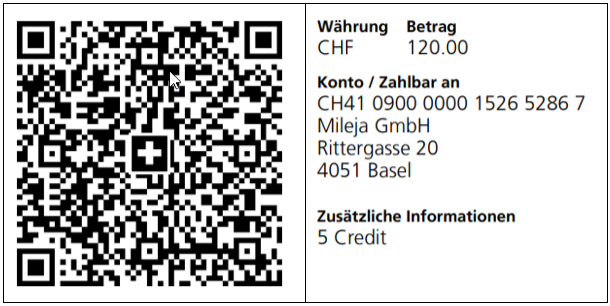
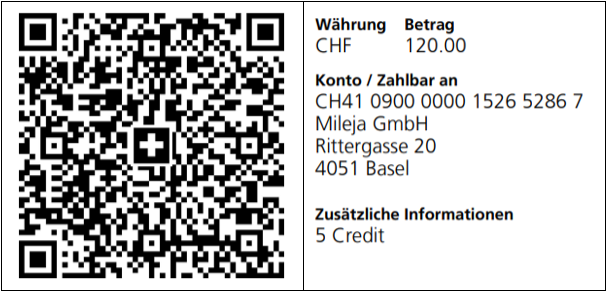
format corrections

diff --git a/users/templates/partials/transaction_history.html b/users/templates/partials/transaction_history.html
@@ -3,55 +3,76 @@
   id="purchase-transactions"
   class="flex justify-center items-center mt-24"
   x-data="{ displayInvoice: '' }"
+  x-init="displayInvoice=''"
 >
   <table
     class="table-auto border-collapse w-[90%] bg-white rounded-xl shadow-lg overflow-hidden"
     @click.outside="displayInvoice=''"
   >
-    <thead class="bg-[#e46aeb] text-white">
+    <thead class="bg-[#e46aeb] text-white text-xs">
       <tr>
-        <th class="p-2 md:px-6 md:py-4 text-left">Bestelldatum</th>
-        <th class="p-2 md:px-6 md:py-4 text-center">Anzahl Credits</th>
-        <th class="p-2 md:px-6 md:py-4 text-center">Status</th>
+        <th class="p-3 md:px-6 md:py-4 text-left">Bestelldatum</th>
+        <th class="p-3 md:px-6 md:py-4 text-center">Anzahl Credits</th>
+        <th class="p-3 md:px-6 md:py-4 text-center">Status</th>
         <th></th>
       </tr>
     </thead>
-    <tbody class="divide-y divide-gray-200 text-black">
+    <tbody class="divide-y divide-gray-200 text-black text-xs">
       {% for pt in purchase_transactions %}
       <tr
         id="tr-{{ pt.pk }}"
         class="hover:bg-gray-100"
-        @click="displayInvoice='invoice-{{ pt.pk }}'"
+        @click="displayInvoice === 'invoice-{{ pt.pk }}' ? displayInvoice='' : displayInvoice='invoice-{{ pt.pk }}'"
       >
-        <td class="p-2 md:px-6 md:py-4">{{ pt.date }}</td>
-        <td class="p-2 md:px-6 md:py-4 text-center">{{ pt.number }}</td>
-        <td class="p-2 md:px-6 md:py-4 text-center">
+        <td class="p-3 md:px-6 md:py-4">{{ pt.date }}</td>
+        <td class="p-3 md:px-6 md:py-4 text-center">{{ pt.number }}</td>
+        <td class="p-3 md:px-6 md:py-4 text-center">
           <span
             class="inline-block px-3 py-1 text-sm font-semibold rounded-full text-white {% if pt.status == 'pending' %} bg-red-500 {% else %} bg-green-500 {% endif %}"
           >
             {{ pt.get_status_display }}
           </span>
         </td>
-        <td id="chevron-icon" class="text-left">
-          <svg
-            xmlns="http://www.w3.org/2000/svg"
-            fill="none"
-            viewBox="0 0 24 24"
-            stroke-width="1.5"
-            stroke="currentColor"
-            class="size-6"
-          >
-            <path
-              stroke-linecap="round"
-              stroke-linejoin="round"
-              d="m19.5 8.25-7.5 7.5-7.5-7.5"
-            />
-          </svg>
+        <td id="chevron-icon" class="text-left p-3 md:px-6">
+          <!-- Conditionally render chevron based on displayInvoice -->
+          <template x-if="displayInvoice === 'invoice-{{ pt.pk }}'">
+            <svg
+              xmlns="http://www.w3.org/2000/svg"
+              fill="none"
+              viewBox="0 0 24 24"
+              stroke-width="1.5"
+              stroke="currentColor"
+              class="size-6"
+            >
+              <path
+                stroke-linecap="round"
+                stroke-linejoin="round"
+                d="M19.5 15.75L12 8.25l-7.5 7.5"
+              />
+            </svg>
+          </template>
+          <template x-if="displayInvoice !== 'invoice-{{ pt.pk }}'">
+            <svg
+              xmlns="http://www.w3.org/2000/svg"
+              fill="none"
+              viewBox="0 0 24 24"
+              stroke-width="1.5"
+              stroke="currentColor"
+              class="size-6"
+            >
+              <path
+                stroke-linecap="round"
+                stroke-linejoin="round"
+                d="m19.5 8.25-7.5 7.5-7.5-7.5"
+              />
+            </svg>
+          </template>
         </td>
       </tr>
       <tr
         id="invoice-{{ pt.pk }}"
         x-show="displayInvoice=='invoice-{{ pt.pk }}'"
+        :class=" displayInvoice=='invoice-{{ pt.pk }}' ? '' : 'hidden' "
       >
         {% if pt.number == 1 %}
         <td colspan="3">

diff --git a/users/templates/partials/my_credits.html b/users/templates/partials/my_credits.html
@@ -1,6 +1,9 @@
 {% load static %}
 
-<div class="text-white" x-data="{ purchaseCredits: false, confirmed: '' }">
+<div
+  class="text-white"
+  x-data="{ purchaseCredits: false, confirmed: '', displayInvoice: '' }"
+>
   <!-- Credits content -->
   <div
     id="credits"
@@ -94,7 +97,7 @@
     </p>
     <img
       class="w-[80%] mx-auto my-4"
-      src="{% static 'users/images/QR_5_Credit_compact.png' %}"
+      src="{% static 'users/images/QR_5_Credits_compact.png' %}"
       alt="invoice-1-credit"
     />
     <button

diff --git a/core/templates/core/base.html b/core/templates/core/base.html
@@ -253,5 +253,13 @@
       <!-- Content goes here -->
       {% endblock %}
     </div>
+
+    <!-- Alpine.js reinitialization script -->
+    <script>
+      document.addEventListener("htmx:afterSwap", function (evt) {
+        // Reinitialize Alpine.js after an HTMX swap
+        Alpine.initTree(evt.target);
+      });
+    </script>
   </body>
 </html>

diff --git a/users/templates/partials/news_item.html b/users/templates/partials/news_item.html
@@ -6,7 +6,9 @@
   <p class="text-lg md:text-2xl font-bold text-[#00df9a] mb-4 md:mb-8">
     {{ news_item.title}}
   </p>
-  <p class="text-black text-sm md:text-lg">{{ news_item.news_text}}</p>
+  <p class="text-black text-justify text-sm md:text-lg">
+    {{ news_item.news_text}}
+  </p>
   <button
     @click="showNews=false"
     type="button"

diff --git a/users/templates/partials/gtc.html b/users/templates/partials/gtc.html
@@ -10,7 +10,7 @@
   </p>
 </div>
 
-<div class="text-white">
+<div class="text-white text-justify">
   <!-- GTC content -->
   <div>
     Lorem ipsum dolor sit amet, consetetur sadipscing elitr, sed diam nonumy

diff --git a/users/templates/partials/my_bookings.html b/users/templates/partials/my_bookings.html
@@ -10,4 +10,8 @@
 
   {% endfor %}
 </div>
+{% else %}
+<div>
+  <p class="text-center">Du hast noch keine Kurse gebucht.</p>
+</div>
 {% endif %}

diff --git a/users/views.py b/users/views.py
@@ -92,7 +92,7 @@ def my_account(request):
     nav_content = request.GET.get('navigate')
     
     if nav_content == 'news':      
-        news = News.objects.filter(publish_date__lte=timezone.now())        
+        news = News.objects.filter(publish_date__lte=timezone.now()).order_by('-publish_date')  
         context = {
             "news": news
         }
